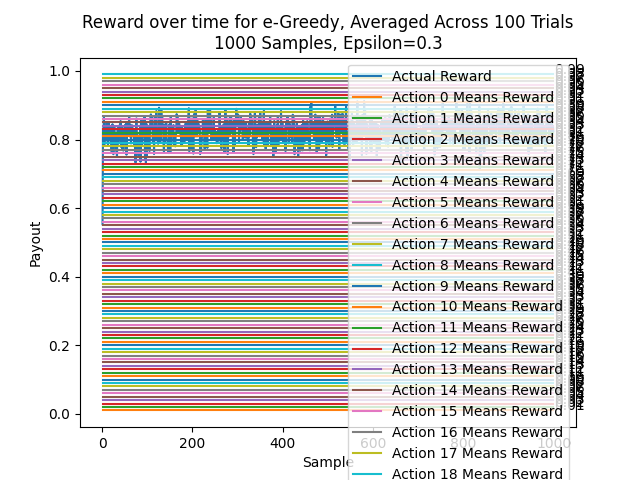
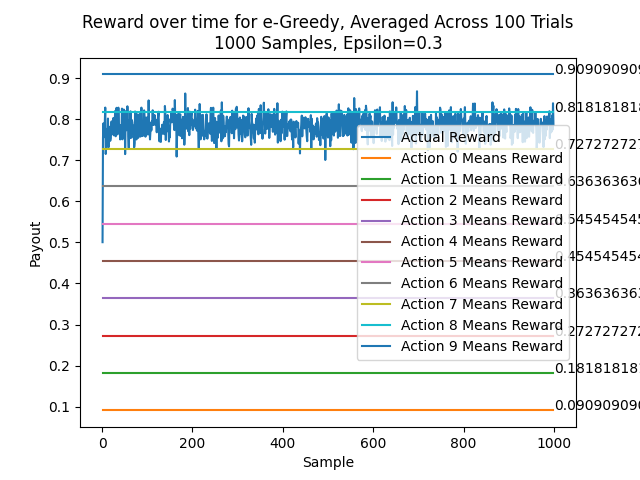
Removed Document writing and have figures set to display

diff --git a/UCB.py b/UCB.py
@@ -3,18 +3,21 @@
 # Professor: Dr. Sen, Fall 2021
 # Noah Schrick, Noah Hall, Jordan White
 
-from docx import Document
-from docx.shared import Inches
+# For writing Figures to Report.docx
+#from docx import Document
+#from docx.shared import Inches
+
 import numpy as np
 import random
 from Bandit_Sim.bandit_sim import Bandit_Sim
 import matplotlib.pyplot as plt
 
-NUM_ARMS = 99
+#Global Variables
+NUM_ARMS = 10
 NUM_SAMPLES = 1000
 EPSILON = 0.3
 NUM_TRIALS = 100
-STD_DEV = 0.2
+STD_DEV = 0.1
 
 class Arm:
     instances = []
@@ -45,10 +48,11 @@ def main():
     eg_tot_r_list = []
     eg_regret = []
 
-    document = Document('Report.docx')
-    heading_str = str(NUM_SAMPLES) + ' Samples, ' + str(NUM_TRIALS) + ' Trials, ' + str(NUM_ARMS) + ' Arms, Epsilon=' + str(EPSILON) + ' Std Dev=' + str(STD_DEV)
-    document.add_heading(heading_str)
-    document.save('Report.docx')
+    # Writing to Document
+    #document = Document('Report.docx')
+    #heading_str = str(NUM_SAMPLES) + ' Samples, ' + str(NUM_TRIALS) + ' Trials, ' + str(NUM_ARMS) + ' Arms, Epsilon=' + str(EPSILON) + ' Std Dev=' + str(STD_DEV)
+    #document.add_heading(heading_str)
+    #document.save('Report.docx')
 
     '''Call UCB'''
     for i in range(NUM_TRIALS):
@@ -76,7 +80,7 @@ def main():
     plot_results(eg_r_avg, eg_regret, "e-Greedy", bandsim)
 
     comp_ucb_eg(ucb_regret, eg_regret, bandsim)
-    #plt.show()
+    plt.show()
 
   
 def plot_results(r_list, regret, fcn, bandsim):
@@ -97,10 +101,10 @@ def plot_results(r_list, regret, fcn, bandsim):
         plt.text(NUM_SAMPLES, rew, str(rew))
     plt.title(title_str)
     plt.legend()
-    #plt.show(block=False)
+    plt.show(block=False)
     plt.savefig('1.png')
-    document=Document('Report.docx')
-    document.add_picture('1.png', width=Inches(1.25))
+    #document=Document('Report.docx')
+    #document.add_picture('1.png', width=Inches(1.25))
 
     #Bar Graph:
     #Get list of arms for plotting labels
@@ -126,7 +130,7 @@ def plot_results(r_list, regret, fcn, bandsim):
         plt.text(i, tot_pulls[i], tot_pulls[i], ha="center", va="bottom")
     #plt.show(block=False)
     plt.savefig('2.png')
-    document.add_picture('2.png', width=Inches(1.25))
+    #document.add_picture('2.png', width=Inches(1.25))
 
 
     #Plot Regret
@@ -153,8 +157,8 @@ def plot_results(r_list, regret, fcn, bandsim):
     plt.legend()
     #plt.show(block=False)
     plt.savefig('3.png')
-    document.add_picture('3.png', width=Inches(1.25))
-    document.save('Report.docx')
+    #document.add_picture('3.png', width=Inches(1.25))
+    #document.save('Report.docx')
 
 
 def comp_ucb_eg(ucb_regret, eg_regret, bandsim):
@@ -173,11 +177,9 @@ def comp_ucb_eg(ucb_regret, eg_regret, bandsim):
     plt.legend()
     #plt.show(block=False)
     plt.savefig('4.png')
-    document=Document('Report.docx')
-    document.add_picture('4.png', width=Inches(1.25))
-    document.save('Report.docx')
-
-
+    #document=Document('Report.docx')
+    #document.add_picture('4.png', width=Inches(1.25))
+    #document.save('Report.docx')
 
 def list_avg(myList):
     return np.mean(myList, axis=0)
